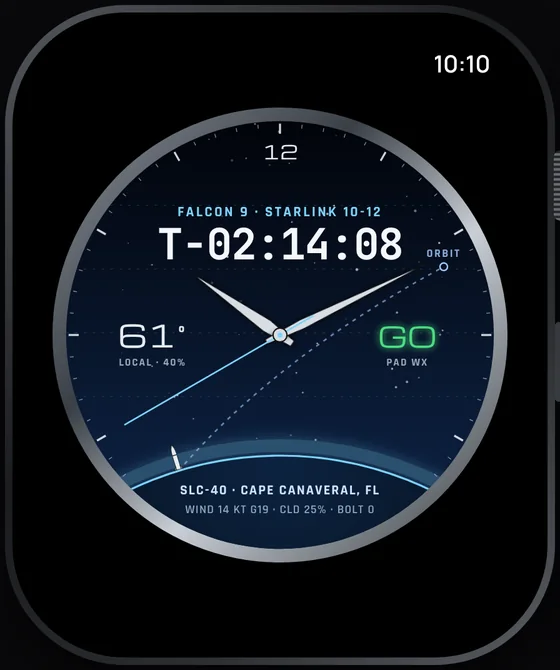
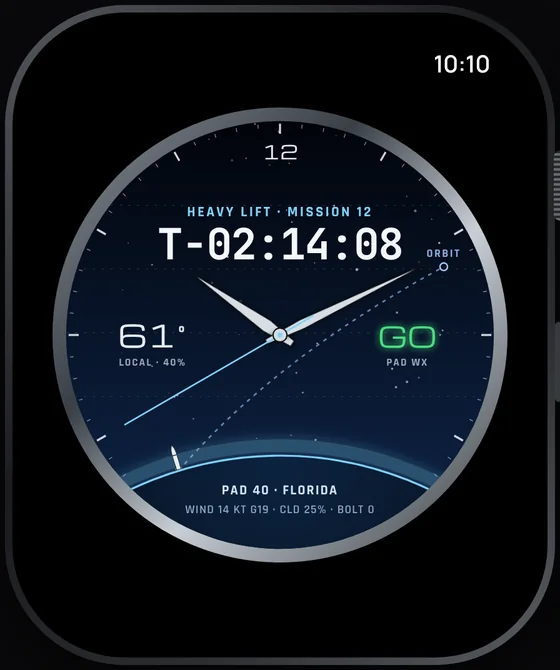
Preview: generic vehicle and pad names on coming-soon launch dials
Re-render Ignition, Apogee and Gantry with Heavy Lift, Mission 12 and Pad 40, Florida. Leave the original launch mockup sources unchanged.

Changed region(s): [[0.3036, 0.2985, 0.6982, 0.3284], [0.3036, 0.7164, 0.6679, 0.7463]]

diff --git a/index.html b/index.html
@@ -48,7 +48,7 @@
 <div class="split" style="margin-top:20px"><figure style="margin:0;justify-self:center;max-width:280px"><div class="shot" style="max-width:280px"><img src="assets/app-cams.jpg?v=a5f024f165" width="600" height="1398" alt="The app's Cams view: live webcams near Reykjavik, Iceland, with thumbnails credited to Windy" loading="lazy"></div><figcaption class="dim small" style="text-align:center;margin-top:8px">In the app: live cams near you (Reykjavik, Iceland shown). Webcam images via Windy.</figcaption></figure>
 <div><h2 style="margin-top:0">Weather cams near you, free</h2><p>Real camera views from USGS, NOAA, Windy.com and <strong>WebCOOS</strong> coastal cams (SECOORA / NOAA IOOS), plus YouTube live streams. Coastal imagery courtesy of WebCOOS.</p>
 <h2>Off-Grid Safety, free for everyone</h2><p>When you're out of signal near a severe alert, the app helps you text your saved location to your emergency contacts. If your phone supports satellite texting, it can go out by satellite. Use Emergency SOS or call 911 first. <em>Satellite texting may require a compatible plan. Carrier message and data rates may apply.</em></p></div></div>
-<section class="wp" id="watch" aria-labelledby="wp-h"><p class="kicker">On your wrist</p><h2 id="wp-h">Weather on Apple Watch and Wear OS</h2><p class="wp-lead">Weather on your wrist, with full-screen luxury dials, complications and a glanceable widget. The Apple Watch app is included with iPhone 1.0.5. On Android, the Wear OS watch app comes with the app on Google Play.</p><div class="wp-platforms"><div class="card wp-plat"><h3>Apple Watch</h3><p>The iPhone 1.0.5 update adds an Apple Watch app with full-screen luxury dials, complications, a Smart Stack widget and the Premium Field dial series. Free dials include Keel and Alto. Premium adds Aureole, Nimbus, Lyra, Atelier and the Field series: Recon, Sentinel, Harbor, Skyline, Orbit and Cutter.</p><div class="btns"><a class="btn as-btn " data-ev="app_store" data-prov="app_store" data-sec="watchpromo" href="https://apps.apple.com/us/app/your-world-weather-radar/id6822555783" target="_blank" rel="noopener"><svg viewBox="0 0 24 24" aria-hidden="true"><path fill="currentColor" d="M16.37 12.6c-.02-2.3 1.88-3.4 1.96-3.46-1.07-1.56-2.73-1.78-3.32-1.8-1.41-.14-2.76.83-3.48.83-.72 0-1.82-.81-3-.79-1.54.02-2.97.9-3.76 2.28-1.6 2.78-.41 6.9 1.15 9.16.76 1.1 1.67 2.34 2.86 2.3 1.15-.05 1.58-.74 2.97-.74 1.38 0 1.77.74 2.98.72 1.23-.02 2.01-1.12 2.76-2.23.87-1.28 1.23-2.52 1.25-2.58-.03-.01-2.4-.92-2.42-3.66zM14.1 5.86c.63-.77 1.06-1.83.94-2.89-.91.04-2.01.61-2.66 1.37-.58.67-1.1 1.76-.96 2.8 1.01.08 2.05-.52 2.68-1.28z"/></svg>Download on the App Store</a></div><div class="wp-gallery" role="list"><figure class="wp-fig aw"><img src="assets/watch/aw-now.webp?v=54e2aecbb5" width="148" height="176" alt="Apple Watch Now screen with current temperature, rain timing and an alert" loading="lazy"><figcaption>Now</figcaption></figure><figure class="wp-fig aw"><img src="assets/watch/aw-keel.webp?v=064394373a" width="148" height="176" alt="Keel, a free Apple Watch dial with temperature and rain chance" loading="lazy"><figcaption>Keel<span class="tag free">Free</span></figcaption></figure><figure class="wp-fig aw"><img src="assets/watch/aw-nimbus.webp?v=b4fc40804d" width="148" height="176" alt="Nimbus, a Premium Apple Watch dial" loading="lazy"><figcaption>Nimbus<span class="tag prem">Premium</span></figcaption></figure><figure class="wp-fig aw"><img src="assets/watch/aw-aureole.webp?v=b262fb0dcb" width="148" height="176" alt="Aureole, a Premium Apple Watch dial" loading="lazy"><figcaption>Aureole<span class="tag prem">Premium</span></figcaption></figure><figure class="wp-fig aw"><img src="assets/watch/aw-recon.webp?v=1eed98cfd9" width="148" height="176" alt="Recon, a Premium Field dial on Apple Watch" loading="lazy"><figcaption>Recon<span class="tag prem">Premium</span></figcaption></figure><figure class="wp-fig aw"><img src="assets/watch/aw-sentinel.webp?v=79693e8b1c" width="148" height="176" alt="Sentinel, a Premium Field dial on Apple Watch" loading="lazy"><figcaption>Sentinel<span class="tag prem">Premium</span></figcaption></figure><figure class="wp-fig aw"><img src="assets/watch/aw-harbor.webp?v=5cfef38e78" width="148" height="176" alt="Harbor, a Premium Field dial on Apple Watch" loading="lazy"><figcaption>Harbor<span class="tag prem">Premium</span></figcaption></figure><figure class="wp-fig aw"><img src="assets/watch/aw-orbit.webp?v=aa99ce1b5d" width="148" height="176" alt="Orbit, a Premium Field dial on Apple Watch" loading="lazy"><figcaption>Orbit<span class="tag prem">Premium</span></figcaption></figure><figure class="wp-fig aw"><img src="assets/watch/aw-cutter.webp?v=003915f8c1" width="148" height="176" alt="Cutter, a Premium Field dial on Apple Watch" loading="lazy"><figcaption>Cutter<span class="tag prem">Premium</span></figcaption></figure><figure class="wp-fig aw"><img src="assets/watch/aw-skyline.webp?v=b325f16194" width="148" height="176" alt="Skyline, a Premium Field dial on Apple Watch" loading="lazy"><figcaption>Skyline<span class="tag prem">Premium</span></figcaption></figure></div></div><div class="card wp-plat"><h3>Wear OS</h3><p>The Wear OS watch app includes luxury faces, a tile, complications and wrist weather alerts, plus the Premium Field faces. Free faces include Keel and Alto. Get it with Your World Weather Radar on Google Play.</p><div class="btns"><a class="btn primary" href="https://play.google.com/store/apps/details?id=com.yourworld.weatheranalyzer&amp;referrer=utm_source%3Dweathersite%26utm_medium%3Dwatch%26utm_campaign%3Dwatchpromo" target="_blank" rel="noopener"><svg viewBox="0 0 24 24" aria-hidden="true"><path fill="currentColor" d="M4 2.5v19l16-9.5z"/></svg>Get it on Google Play</a></div><div class="wp-gallery" role="list"><figure class="wp-fig wear"><img src="assets/watch/wear-now.webp?v=d305ae35ba" width="148" height="148" alt="Wear OS Now screen with current weather" loading="lazy"><figcaption>Now</figcaption></figure><figure class="wp-fig wear"><img src="assets/watch/wear-tile.webp?v=99ddcf5030" width="148" height="148" alt="Wear OS weather tile with a warning glance" loading="lazy"><figcaption>Tile</figcaption></figure><figure class="wp-fig wear"><img src="assets/watch/wear-keel.webp?v=6253aa9473" width="148" height="148" alt="Keel, a free Wear OS watch face" loading="lazy"><figcaption>Keel<span class="tag free">Free</span></figcaption></figure><figure class="wp-fig wear"><img src="assets/watch/wear-aureole.webp?v=8c593a6474" width="148" height="148" alt="Aureole, a Premium Wear OS watch face" loading="lazy"><figcaption>Aureole<span class="tag prem">Premium</span></figcaption></figure><figure class="wp-fig wear"><img src="assets/watch/wear-lyra.webp?v=104871fc50" width="148" height="148" alt="Lyra, a Premium Wear OS watch face" loading="lazy"><figcaption>Lyra<span class="tag prem">Premium</span></figcaption></figure><figure class="wp-fig wear"><img src="assets/watch/wear-atelier.webp?v=6999edfa89" width="148" height="148" alt="Atelier, a Premium Wear OS watch face" loading="lazy"><figcaption>Atelier<span class="tag prem">Premium</span></figcaption></figure><figure class="wp-fig wear"><img src="assets/watch/wear-harbor.webp?v=e8fe3bb29a" width="148" height="148" alt="Harbor, a Premium Field face on Wear OS" loading="lazy"><figcaption>Harbor<span class="tag prem">Premium</span></figcaption></figure><figure class="wp-fig wear"><img src="assets/watch/wear-orbit.webp?v=c1bee909ad" width="148" height="148" alt="Orbit, a Premium Field face on Wear OS" loading="lazy"><figcaption>Orbit<span class="tag prem">Premium</span></figcaption></figure><figure class="wp-fig wear"><img src="assets/watch/wear-recon.webp?v=542b8a9ff0" width="148" height="148" alt="Recon, a Premium Field face on Wear OS" loading="lazy"><figcaption>Recon<span class="tag prem">Premium</span></figcaption></figure></div></div></div><div class="wp-soon"><p class="kicker">Coming soon</p><h3>Ignition, Apogee and Gantry</h3><p>Three Premium rocket-launch dials are on the way, with a launch countdown and pad weather at a glance.</p><div class="wp-gallery" role="list"><figure class="wp-fig soon"><img src="assets/watch/soon-ignition.webp?v=d56fbb39ec" width="148" height="177" alt="Ignition rocket-launch dial mockup, coming soon" loading="lazy"><figcaption>Ignition<span class="tag soon">Coming soon</span></figcaption></figure><figure class="wp-fig soon"><img src="assets/watch/soon-apogee.webp?v=a48904e25d" width="148" height="177" alt="Apogee rocket-launch dial mockup, coming soon" loading="lazy"><figcaption>Apogee<span class="tag soon">Coming soon</span></figcaption></figure><figure class="wp-fig soon"><img src="assets/watch/soon-gantry.webp?v=4c91108926" width="148" height="177" alt="Gantry rocket-launch dial mockup, coming soon" loading="lazy"><figcaption>Gantry<span class="tag soon">Coming soon</span></figcaption></figure></div></div></section><h2>Plan ahead</h2><div class="grid">
+<section class="wp" id="watch" aria-labelledby="wp-h"><p class="kicker">On your wrist</p><h2 id="wp-h">Weather on Apple Watch and Wear OS</h2><p class="wp-lead">Weather on your wrist, with full-screen luxury dials, complications and a glanceable widget. The Apple Watch app is included with iPhone 1.0.5. On Android, the Wear OS watch app comes with the app on Google Play.</p><div class="wp-platforms"><div class="card wp-plat"><h3>Apple Watch</h3><p>The iPhone 1.0.5 update adds an Apple Watch app with full-screen luxury dials, complications, a Smart Stack widget and the Premium Field dial series. Free dials include Keel and Alto. Premium adds Aureole, Nimbus, Lyra, Atelier and the Field series: Recon, Sentinel, Harbor, Skyline, Orbit and Cutter.</p><div class="btns"><a class="btn as-btn " data-ev="app_store" data-prov="app_store" data-sec="watchpromo" href="https://apps.apple.com/us/app/your-world-weather-radar/id6822555783" target="_blank" rel="noopener"><svg viewBox="0 0 24 24" aria-hidden="true"><path fill="currentColor" d="M16.37 12.6c-.02-2.3 1.88-3.4 1.96-3.46-1.07-1.56-2.73-1.78-3.32-1.8-1.41-.14-2.76.83-3.48.83-.72 0-1.82-.81-3-.79-1.54.02-2.97.9-3.76 2.28-1.6 2.78-.41 6.9 1.15 9.16.76 1.1 1.67 2.34 2.86 2.3 1.15-.05 1.58-.74 2.97-.74 1.38 0 1.77.74 2.98.72 1.23-.02 2.01-1.12 2.76-2.23.87-1.28 1.23-2.52 1.25-2.58-.03-.01-2.4-.92-2.42-3.66zM14.1 5.86c.63-.77 1.06-1.83.94-2.89-.91.04-2.01.61-2.66 1.37-.58.67-1.1 1.76-.96 2.8 1.01.08 2.05-.52 2.68-1.28z"/></svg>Download on the App Store</a></div><div class="wp-gallery" role="list"><figure class="wp-fig aw"><img src="assets/watch/aw-now.webp?v=54e2aecbb5" width="148" height="176" alt="Apple Watch Now screen with current temperature, rain timing and an alert" loading="lazy"><figcaption>Now</figcaption></figure><figure class="wp-fig aw"><img src="assets/watch/aw-keel.webp?v=064394373a" width="148" height="176" alt="Keel, a free Apple Watch dial with temperature and rain chance" loading="lazy"><figcaption>Keel<span class="tag free">Free</span></figcaption></figure><figure class="wp-fig aw"><img src="assets/watch/aw-nimbus.webp?v=b4fc40804d" width="148" height="176" alt="Nimbus, a Premium Apple Watch dial" loading="lazy"><figcaption>Nimbus<span class="tag prem">Premium</span></figcaption></figure><figure class="wp-fig aw"><img src="assets/watch/aw-aureole.webp?v=b262fb0dcb" width="148" height="176" alt="Aureole, a Premium Apple Watch dial" loading="lazy"><figcaption>Aureole<span class="tag prem">Premium</span></figcaption></figure><figure class="wp-fig aw"><img src="assets/watch/aw-recon.webp?v=1eed98cfd9" width="148" height="176" alt="Recon, a Premium Field dial on Apple Watch" loading="lazy"><figcaption>Recon<span class="tag prem">Premium</span></figcaption></figure><figure class="wp-fig aw"><img src="assets/watch/aw-sentinel.webp?v=79693e8b1c" width="148" height="176" alt="Sentinel, a Premium Field dial on Apple Watch" loading="lazy"><figcaption>Sentinel<span class="tag prem">Premium</span></figcaption></figure><figure class="wp-fig aw"><img src="assets/watch/aw-harbor.webp?v=5cfef38e78" width="148" height="176" alt="Harbor, a Premium Field dial on Apple Watch" loading="lazy"><figcaption>Harbor<span class="tag prem">Premium</span></figcaption></figure><figure class="wp-fig aw"><img src="assets/watch/aw-orbit.webp?v=aa99ce1b5d" width="148" height="176" alt="Orbit, a Premium Field dial on Apple Watch" loading="lazy"><figcaption>Orbit<span class="tag prem">Premium</span></figcaption></figure><figure class="wp-fig aw"><img src="assets/watch/aw-cutter.webp?v=003915f8c1" width="148" height="176" alt="Cutter, a Premium Field dial on Apple Watch" loading="lazy"><figcaption>Cutter<span class="tag prem">Premium</span></figcaption></figure><figure class="wp-fig aw"><img src="assets/watch/aw-skyline.webp?v=b325f16194" width="148" height="176" alt="Skyline, a Premium Field dial on Apple Watch" loading="lazy"><figcaption>Skyline<span class="tag prem">Premium</span></figcaption></figure></div></div><div class="card wp-plat"><h3>Wear OS</h3><p>The Wear OS watch app includes luxury faces, a tile, complications and wrist weather alerts, plus the Premium Field faces. Free faces include Keel and Alto. Get it with Your World Weather Radar on Google Play.</p><div class="btns"><a class="btn primary" href="https://play.google.com/store/apps/details?id=com.yourworld.weatheranalyzer&amp;referrer=utm_source%3Dweathersite%26utm_medium%3Dwatch%26utm_campaign%3Dwatchpromo" target="_blank" rel="noopener"><svg viewBox="0 0 24 24" aria-hidden="true"><path fill="currentColor" d="M4 2.5v19l16-9.5z"/></svg>Get it on Google Play</a></div><div class="wp-gallery" role="list"><figure class="wp-fig wear"><img src="assets/watch/wear-now.webp?v=d305ae35ba" width="148" height="148" alt="Wear OS Now screen with current weather" loading="lazy"><figcaption>Now</figcaption></figure><figure class="wp-fig wear"><img src="assets/watch/wear-tile.webp?v=99ddcf5030" width="148" height="148" alt="Wear OS weather tile with a warning glance" loading="lazy"><figcaption>Tile</figcaption></figure><figure class="wp-fig wear"><img src="assets/watch/wear-keel.webp?v=6253aa9473" width="148" height="148" alt="Keel, a free Wear OS watch face" loading="lazy"><figcaption>Keel<span class="tag free">Free</span></figcaption></figure><figure class="wp-fig wear"><img src="assets/watch/wear-aureole.webp?v=8c593a6474" width="148" height="148" alt="Aureole, a Premium Wear OS watch face" loading="lazy"><figcaption>Aureole<span class="tag prem">Premium</span></figcaption></figure><figure class="wp-fig wear"><img src="assets/watch/wear-lyra.webp?v=104871fc50" width="148" height="148" alt="Lyra, a Premium Wear OS watch face" loading="lazy"><figcaption>Lyra<span class="tag prem">Premium</span></figcaption></figure><figure class="wp-fig wear"><img src="assets/watch/wear-atelier.webp?v=6999edfa89" width="148" height="148" alt="Atelier, a Premium Wear OS watch face" loading="lazy"><figcaption>Atelier<span class="tag prem">Premium</span></figcaption></figure><figure class="wp-fig wear"><img src="assets/watch/wear-harbor.webp?v=e8fe3bb29a" width="148" height="148" alt="Harbor, a Premium Field face on Wear OS" loading="lazy"><figcaption>Harbor<span class="tag prem">Premium</span></figcaption></figure><figure class="wp-fig wear"><img src="assets/watch/wear-orbit.webp?v=c1bee909ad" width="148" height="148" alt="Orbit, a Premium Field face on Wear OS" loading="lazy"><figcaption>Orbit<span class="tag prem">Premium</span></figcaption></figure><figure class="wp-fig wear"><img src="assets/watch/wear-recon.webp?v=542b8a9ff0" width="148" height="148" alt="Recon, a Premium Field face on Wear OS" loading="lazy"><figcaption>Recon<span class="tag prem">Premium</span></figcaption></figure></div></div></div><div class="wp-soon"><p class="kicker">Coming soon</p><h3>Ignition, Apogee and Gantry</h3><p>Three Premium rocket-launch dials are on the way, with a launch countdown and pad weather at a glance.</p><div class="wp-gallery" role="list"><figure class="wp-fig soon"><img src="assets/watch/soon-ignition.webp?v=afb9d9adac" width="148" height="177" alt="Ignition rocket-launch dial mockup, coming soon" loading="lazy"><figcaption>Ignition<span class="tag soon">Coming soon</span></figcaption></figure><figure class="wp-fig soon"><img src="assets/watch/soon-apogee.webp?v=38dea9aec6" width="148" height="177" alt="Apogee rocket-launch dial mockup, coming soon" loading="lazy"><figcaption>Apogee<span class="tag soon">Coming soon</span></figcaption></figure><figure class="wp-fig soon"><img src="assets/watch/soon-gantry.webp?v=49c17c8383" width="148" height="177" alt="Gantry rocket-launch dial mockup, coming soon" loading="lazy"><figcaption>Gantry<span class="tag soon">Coming soon</span></figcaption></figure></div></div></section><h2>Plan ahead</h2><div class="grid">
 <a class="card" href="alert-planner/" style="text-decoration:none"><div class="ico">🔔</div><h3>Forecast &amp; Alert Planner</h3><p>Tell us the place, activity and dates. You get a link and QR code that open the plan in the app.</p></a>
 <a class="card" href="trip-planner/" style="text-decoration:none"><div class="ico">🧳</div><h3>Weather Trip Planner</h3><p>Destination, dates and how you're traveling, in one link for your phone.</p></a>
 <a class="card" href="guides/" style="text-decoration:none"><div class="ico">📚</div><h3>Weather guides</h3><p>Reading radar, watches vs. warnings, hurricanes, lightning and more, sourced from NWS and NOAA.</p></a></div>
